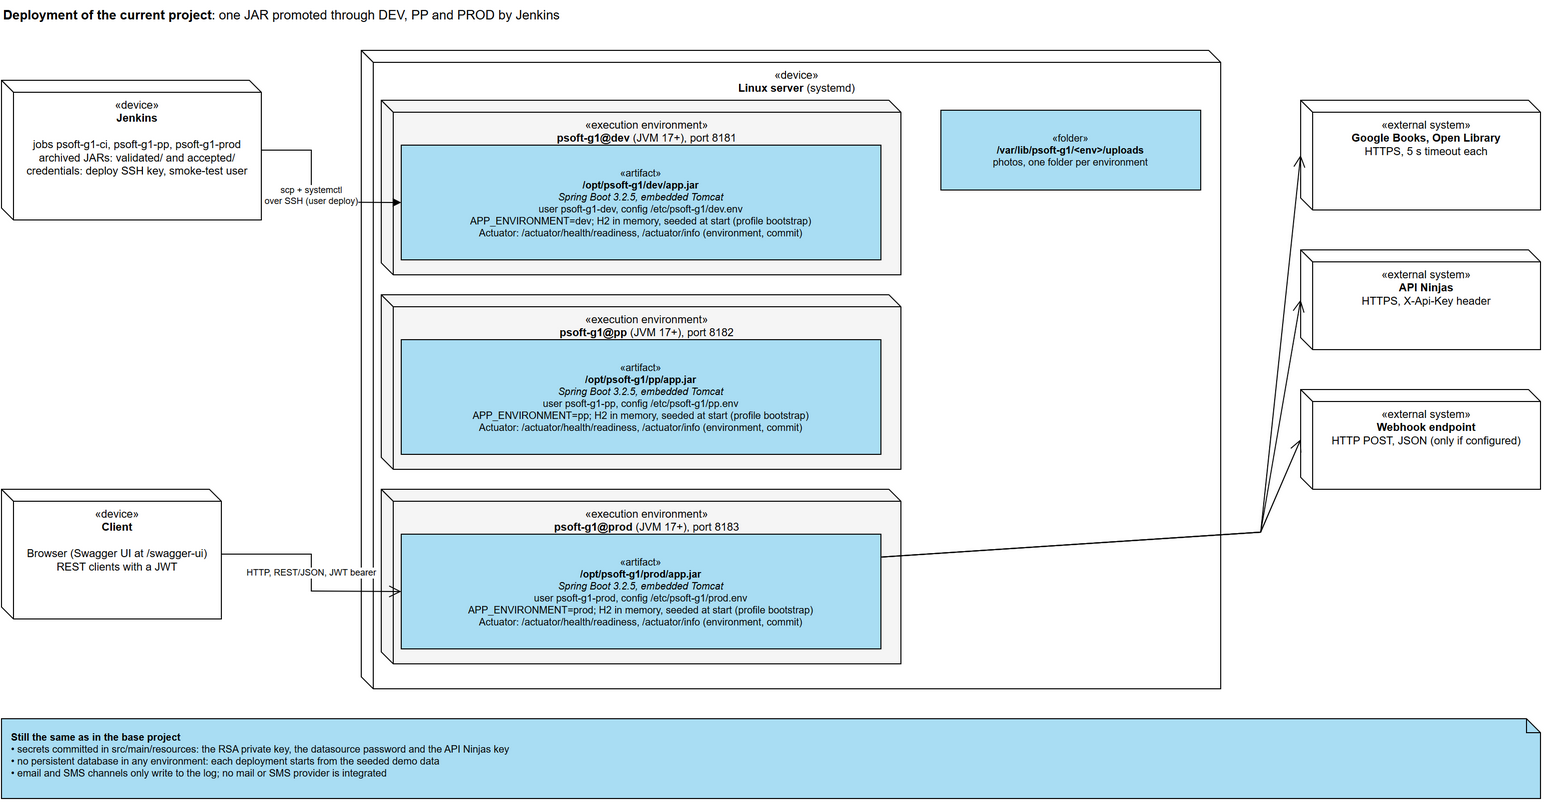
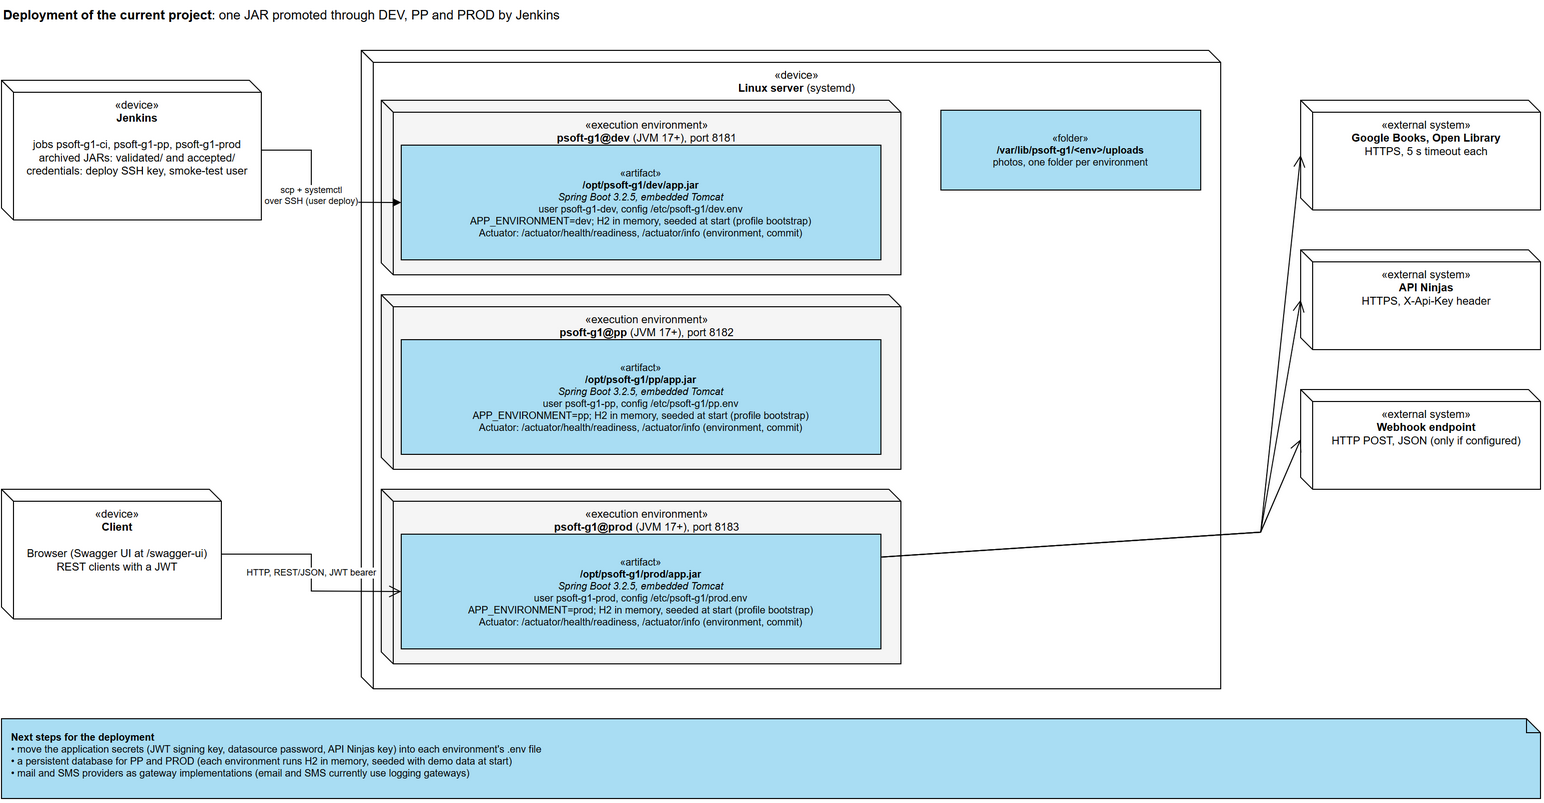
reword some docs, updated add interation

Changed region(s): [[0.0, 0.9029, 0.342, 0.9651]]

diff --git a/docs/architecture/add.md b/docs/architecture/add.md
@@ -283,7 +283,8 @@ Commits: `8ab3d8d`, `4fead80`, `b51c17c`, `c3bd6a5`, `9691639`.
   `NotificationFanoutSystemApiIT` cover the triggers and the delivery through the REST flow.
 - **New concerns:**
   - an event still waiting for delivery is lost if the application stops;
-  - the email and SMS gateways only log, so no real provider is integrated;
+  - email and SMS are delivered through logging gateways; a mail or SMS provider plugs in as a new
+    gateway implementation;
   - `CompositeNotifier` (application services) imports the repository and the JPA entity from the
     module's infrastructure package. That dependency points outwards, and no ArchUnit rule catches it.
 
@@ -335,9 +336,9 @@ Commits: `059a2df`, `0a38ae3`, `08b9b02`, `abb4512`, `ffbdb79`, `f4f1586`, `3eea
 
 - **S5 is addressed.** The rules run on every build, and the domain packages are tested without Spring or
   a database.
-- **New concern: the cycle rule does not protect CI.** The frozen baseline (`archunit_store/`) is ignored
-  by `.gitignore`, so a fresh clone (as in CI) records the cycles it finds instead of comparing against
-  the baseline, and the no-new-cycles rule cannot fail there.
+- **The cycle rule protects CI.** The frozen baseline (`archunit_store/`) is versioned with the code and
+  records the 10 cycles formed by the base project's dependencies. A missing baseline fails the build,
+  so a new cycle fails in CI as well as locally.
 - **New concern: a gap in the rules.** No rule forbids `services` from depending on `infrastructure`, the
   case found in Iteration 4.
 
@@ -380,7 +381,7 @@ cross-module coupling removed first) and a broker-based event architecture (Iter
 | 2 — D2/S2 | `BibliographicProvider` + adapters | S2 verified by `8b84dfe`; S3 needs refinement. |
 | 3 — D3/S3 | `SelectingBibliographicProvider` and fallback, best-effort enrichment | S3 verified with stubs, not against real outages; S3b (latency during outage) emerges. |
 | 4 — D4/S4 | Lending events after commit, `CompositeNotifier`, channel adapters, delivery audit | Modifiability and isolation addressed; event loss on crash, logging-only gateways and the services → infrastructure dependency remain. |
-| 5 — D5/S5 | ArchUnit rules, framework-free domain, fakes and stubs, PIT | Rules on every build; the cycle baseline is not versioned, and services → infrastructure is unchecked. |
+| 5 — D5/S5 | ArchUnit rules, framework-free domain, fakes and stubs, PIT | Rules on every build, with a versioned cycle baseline; a services → infrastructure rule is the next step. |
 
 ADD steps describe activities rather than separate deliverables. The same UML view is instantiated in
 Step 5 and recorded with its rationale in Step 6. Each iteration updates the architectural

diff --git a/docs/lmRedesign/cicd-evaluation.md b/docs/lmRedesign/cicd-evaluation.md
@@ -9,7 +9,7 @@ and [`system-current/current-project-state.md`](system-current/current-project-s
 
 **How the evidence was collected.**
 - **Stage times.** The CI stages were run in order on a clean copy of the repository, with the same
-  commands as `jenkins/Jenkinsfile.ci`, on one developer laptop (JDK 24, Maven wrapper). The times are
+  commands as `jenkins/Jenkinsfile.ci`, on a development machine (JDK 24, Maven wrapper). The times are
   wall-clock times on that machine and vary with load; the ranges come from two runs.
 - **The deployment chain.** The smoke test was run against the packaged JAR, started as the systemd
   service starts it.
@@ -85,8 +85,8 @@ check. The smoke test allows up to 150 seconds for start-up.
   production by design (DP-15).
 
 **Limitations:**
-- **No persistent database.** Each environment reseeds an in-memory H2 at start, so PP and PROD cannot
-  hold real data, and a restart loses everything.
+- **In-memory database.** Each environment runs H2 in memory, reseeded with demo data at start; a
+  persistent database for PP and PROD is listed in section 6.
 - **One server for all environments.** A server failure affects DEV, PP and PROD together, and resource
   contention between them is possible.
 - **Rollback is manual,** and limited to the 30 builds Jenkins keeps.

diff --git a/docs/lmRedesign/system-current/current-project-state.md b/docs/lmRedesign/system-current/current-project-state.md
@@ -114,7 +114,8 @@ The application is now deployed to three environments by Jenkins.
     `src/main/resources`.
 - **Operations.** Actuator exposes `health` (with liveness and readiness probes) and `info`. Logging uses
   the Spring Boot defaults and goes to the systemd journal. Every notification attempt is recorded in the
-  `NOTIFICATION_RECORD` table. Email and SMS are delivered through gateways that only write to the log.
+  `NOTIFICATION_RECORD` table. Email and SMS are delivered through
+  logging gateways; a mail or SMS provider plugs in as another gateway implementation.
 
 ---
 
@@ -234,7 +235,7 @@ same count gives 1,186 lines of test code for the base project, about 1 to 5.
 - **The seeder** is covered because the integration tests start the application with the `bootstrap`
   profile.
 
-**Weak spots, mostly unchanged from the base project:**
+**Remaining gaps, mostly inherited from the base project:**
 - **The REST layer.** The Lending (60%), Shared (64%), user administration (42%), Book (29%) and Author
   (25%) controllers are exercised by the system tests. The Reader and Genre controllers stay at 1–2%.
 - **Genre, Reader and User custom queries** are at 0%.

diff --git a/docs/lmRedesign/system-to-be/development-process-design.md b/docs/lmRedesign/system-to-be/development-process-design.md
@@ -91,8 +91,7 @@ Constraints:
 - **The application's secrets are still in the repository.** The JWT key, the database password and the
   API key are in `src/main/resources`, outside DP-16's scope. Jenkins keeps only the deployment
   credentials.
-- **The environments have no persistent database.** H2 runs in memory and is reseeded on every start, so
-  PP and PROD hold demo data only.
+- **In-memory database.** Each environment runs H2 in memory, reseeded with demo data on every start.
 - **All environments share one server (C1).** A fault in the server affects them all.
 - **Rollback is manual (DP-17),** and limited to the 30 builds Jenkins keeps.
 - **The process metrics need a running Jenkins to collect:** deployment frequency, lead time, change
